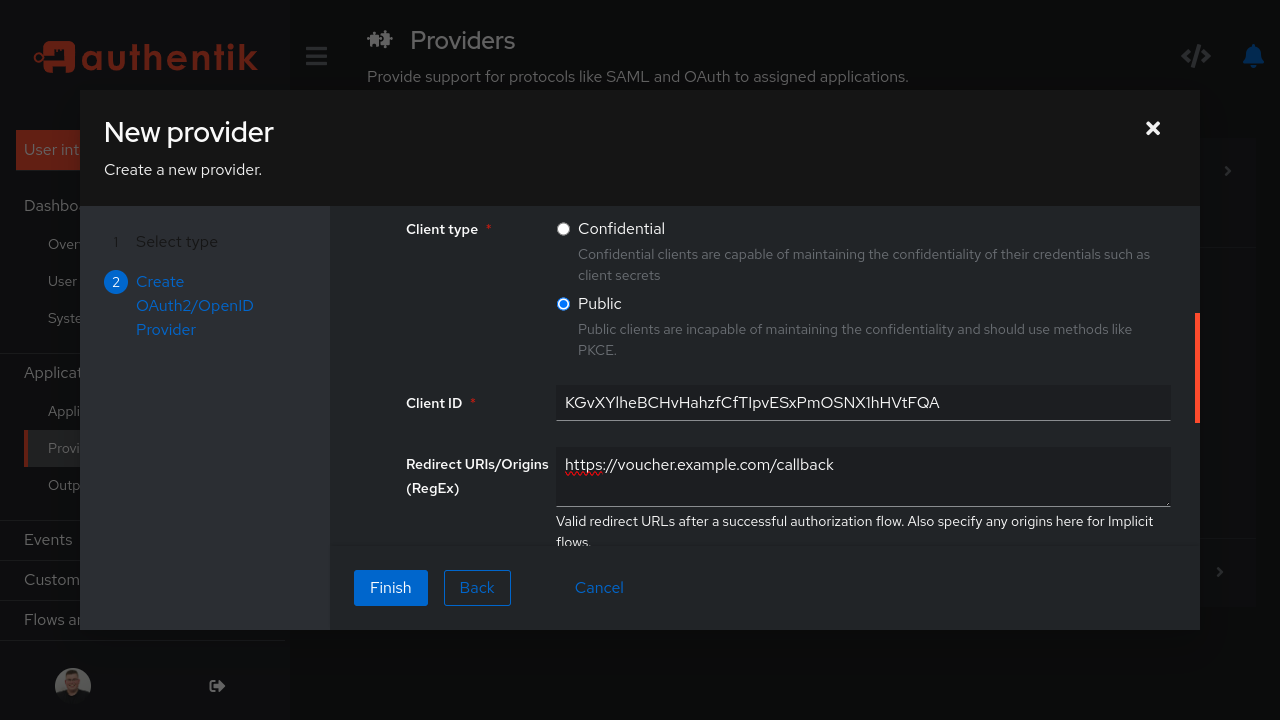
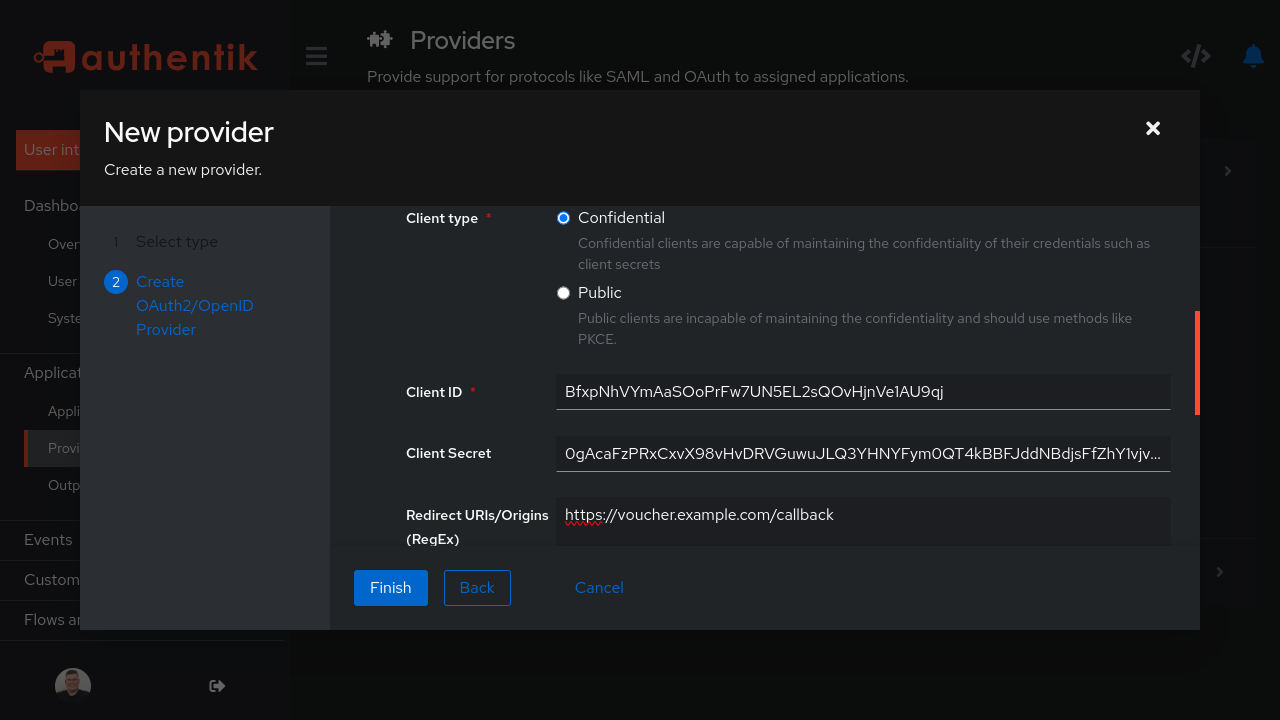
Removed 'public' flow from implementation documentation

diff --git a/.docs/oidc/authentik/README.md b/.docs/oidc/authentik/README.md
@@ -16,24 +16,15 @@
     - **Name**: `unifi-voucher-provider`.
     - **Authentication flow**: `default-authentication-flow`.
     - **Authorization flow**: `default-provider-authorization-implicit-consent`.
-    - **Client Type**: Select either `public` or `confidential` based on your needs:
-        - **Public**: No client secret is required.
-        - **Confidential**: A client secret will be generated.
-5. Set the **Redirect URI** to match your UniFi Voucher Site’s callback URL (e.g., `https://<unifi-voucher-url>/callback`).
+    - **Client Type**: Select `confidential`, A client secret will be generated.
+5. Set the **Redirect URI** to match your UniFi Voucher Site’s callback URL (e.g., `https://voucher.example.com/callback`).
 6. Click **Submit**.
 
 ![Create Provider 1](images/create_provider_1.png)
 ![Create Provider 2](images/create_provider_2.png)
 ![Create Provider 3](images/create_provider_3.png)
-![Create Provider 4](images/create_provider_4.png)
 
-#### For Public Client Method:
-
-- After saving, note down the **Client ID** generated for this provider. You’ll need it when configuring your UniFi Voucher Site.
-
-#### For Confidential Client Method:
-
-- After saving, note down the **Client ID** and **Client Secret** generated for this provider. You’ll need it when configuring your UniFi Voucher Site.
+> After saving, note down the **Client ID** and **Client Secret** generated for this provider. You’ll need it when configuring your UniFi Voucher Site.
 
 ### Step 3: Create a New Application
 
@@ -52,17 +43,6 @@
 ## 2. UniFi Voucher Site Configuration
 
 Now, configure your UniFi Voucher Site to use the Authentik client.
-
-### For Public Client Configuration
-
-1. In your UniFi Voucher Site configuration, set `AUTH_OIDC_CLIENT_TYPE` as `public`.
-2. Set the `AUTH_OIDC_CLIENT_ID` as configured in Authentik (found in the Authentik provider configuration).
-3. Provide the `AUTH_OIDC_ISSUER_BASE_URL` from your Authentik provider.
-    - You can find this under **Providers > unifi-voucher-provider > OpenID Configuration URL** in Authentik.
-4. Provide the `AUTH_OIDC_APP_BASE_URL` from your UniFi Voucher Site instance (e.g., `https://voucher.example.com`).
-5. Restart the container after these changes
-
-### For Confidential Client Configuration
 
 1. In your UniFi Voucher Site configuration, set `AUTH_OIDC_CLIENT_TYPE` as `confidential`.
 2. Set the `AUTH_OIDC_CLIENT_ID` as configured in Authentik (found in the Authentik provider configuration).

diff --git a/.docs/oidc/keycloak/README.md b/.docs/oidc/keycloak/README.md
@@ -30,22 +30,7 @@ If you don't already have a realm:
 
 ### Step 4: Configure the Client
 
-You’ll see various tabs for configuring the client. Set the following fields based on the type of method you want:
-
-#### A. **Public Client Method**
-
-1. Go to the **Settings** tab.
-2. Set **Access Type** to `public`.
-3. Ensure **Implicit Flow Enabled** is set to `ON`. (This enables the Implicit flow for public clients).
-4. Set **Valid Redirect URIs** to your UniFi voucher callback URL (e.g., `https://voucher.example.com/callback`).
-5. Click **Save**.
-
-In this mode, no client secret is required. The public client relies on the Implicit flow without needing to authenticate itself.
-
-![Client Settings 1](images/client_settings_1.png)
-![Client Settings 2](images/client_settings_2.png)
-
-#### B. **Confidential Client Method**
+You’ll see various tabs for configuring the client. Set the following fields:
 
 1. Go to the **Settings** tab.
 2. Set **Access Type** to `confidential`.
@@ -55,7 +40,7 @@ In this mode, no client secret is required. The public client relies on the Impl
 
 6. After saving, go to the **Credentials** tab to get the **Client Secret**. This secret will be used by your UniFi Voucher Site when authenticating as a confidential client.
 
-![Client Settings 3](images/client_settings_3.png)
+![Client Settings 1](images/client_settings_1.png)
 ![Client Settings 2](images/client_settings_2.png)
 ![Client Secret](images/client_secret.png)
 
@@ -64,16 +49,6 @@ In this mode, no client secret is required. The public client relies on the Impl
 ## 2. UniFi Voucher Site Configuration
 
 Now, configure your UniFi Voucher Site to use the Keycloak client.
-
-### For Public Client Configuration
-
-1. In your UniFi Voucher Site configuration, set `AUTH_OIDC_CLIENT_TYPE` as `public`.
-2. Set the `AUTH_OIDC_CLIENT_ID` as configured in Keycloak (e.g., `unifi-voucher-site`).
-3. Provide the `AUTH_OIDC_ISSUER_BASE_URL` from your Keycloak server (e.g., `https://auth.example.com/realms/{realm}/.well-known/openid-configuration`).
-4. Provide the `AUTH_OIDC_APP_BASE_URL` from your UniFi Voucher Site instance (e.g., `https://voucher.example.com`).
-5. Restart the container after these changes
-
-### For Confidential Client Configuration
 
 1. In your UniFi Voucher Site configuration, set `AUTH_OIDC_CLIENT_TYPE` as `confidential`.
 2. Set the `AUTH_OIDC_CLIENT_ID` as configured in Keycloak (e.g., `unifi-voucher-site`).
